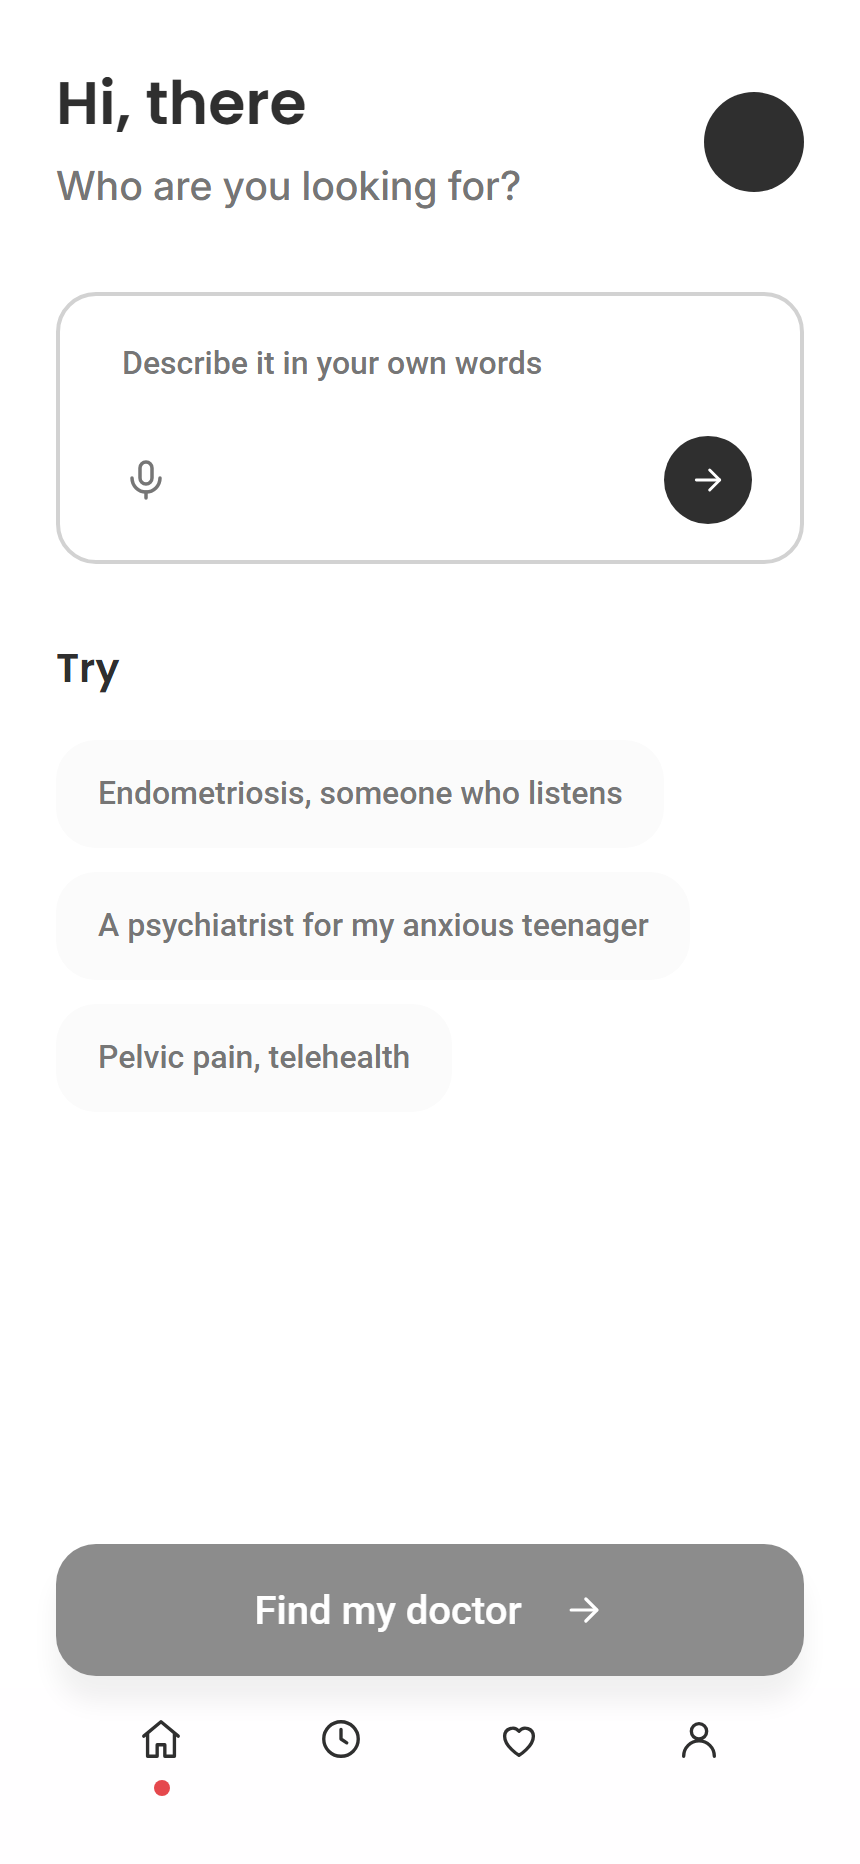
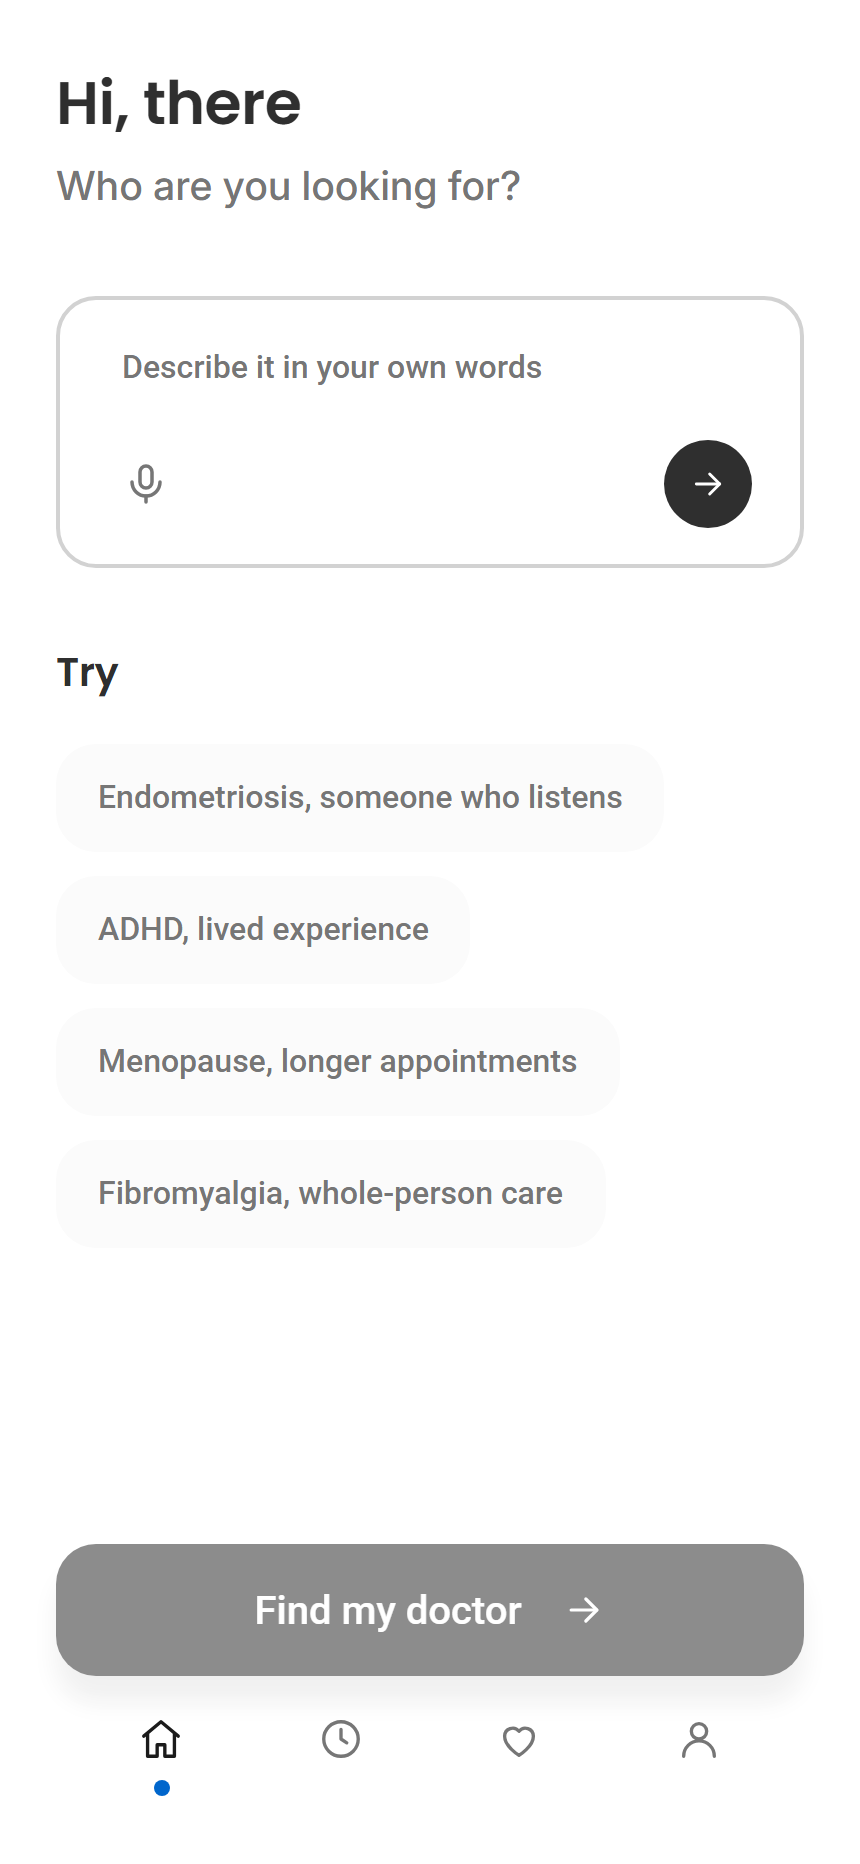
v3: real personal profiles, results cards, flat profile, demo searches
- 29 real QLD doctors with personal bios on their own practice sites merged as 'published'
  personal profiles (src/data/published.ts; women's health, mental health, overlooked chronic);
  every record names its source page; fictional illustrative profiles off by default
- flow: one field -> results -> profile (heard pills editable inline, telehealth / all-QLD toggles)
- cards: avatar, specialty·suburb·km, matched chips, one quote in the doctor's published words,
  practical line; profile in Headway order with labelled sections and folded research/practical/why
- Layer 2: published interests count as documented clinical interests; a profiled doctor who
  sees the asked population outranks one who lists adults only (no-profile stays neutral)
- Brisbane + Sunshine Coast gazetteer; CTA fade; laptop shots in the walk; README/CLAUDE.md

diff --git a/src/ui/screens/patient-a/DoctorCard.tsx b/src/ui/screens/patient-a/DoctorCard.tsx
@@ -9,7 +9,7 @@ import { doctorHref } from "@/src/data/doctor-slug";
 import { Avatar, Chip, Chips, Heart } from "@/src/ui/kit";
 import { drName, personalOf, practicalChips, quoteOf, specialtyTitle, yearsLine } from "@/src/ui/screens/patient-b/facts";
 import { listedOnly, matchChips } from "./card";
-import { placeLine } from "./lib";
+import { placeLine, suburbOf } from "./lib";
 
 function clinicalLine(card: Card, labels: Record<string, string>): string {
   if (listedOnly(card)) return `Listed under ${specialtyTitle(card.doctor.specialty).toLowerCase()}; no documented focus on this yet.`;
@@ -20,8 +20,9 @@ function clinicalLine(card: Card, labels: Record<string, string>): string {
 export function DoctorCard({ card, labels, saved, onSave, index = 0 }: { card: Card; labels: Record<string, string>; saved: boolean; onSave: () => void; index?: number }) {
   const d: DoctorRecord = card.doctor;
   const name = drName(d);
-  const place = placeLine(card);
-  const km = card.distanceKm !== undefined ? `${Math.round(card.distanceKm)} km` : null;
+  const near = card.distanceKm !== undefined && card.distanceKm <= 20;
+  const place = near ? suburbOf(card) : placeLine(card);
+  const km = card.distanceKm !== undefined ? `${Math.max(1, Math.round(card.distanceKm))} km` : d.telehealth.value === "only" ? "Telehealth" : null;
   const head = [specialtyTitle(d.specialty), place, km].filter(Boolean).join(" · ");
   const chips = matchChips(card);
   const quote = quoteOf(d);
@@ -55,7 +56,7 @@ export function DoctorCard({ card, labels, saved, onSave, index = 0 }: { card: C
           </Chips>
         ) : null}
         <p className="mt-4 text-[16px] leading-[1.5] text-charcoal">{quote ? `“${quote.text}”` : clinicalLine(card, labels)}</p>
-        {quote && personal ? <p className="caption mt-1 text-[12px] text-grey">{personal.status === "illustrative" ? "Illustrative example" : "Their own words"}</p> : null}
+        {quote && personal ? <p className="caption mt-1 text-[12px] text-grey">{personal.status === "illustrative" ? "Illustrative example" : personal.status === "published" ? `From ${personal.sourceName ?? "their practice website"}` : "In their words"}</p> : null}
         {practical.length > 0 ? <p className="mt-3 text-[13px] text-grey">{practical.join(" · ")}</p> : null}
       </Link>
     </article>

diff --git a/src/ui/screens/patient-b/facts.ts b/src/ui/screens/patient-b/facts.ts
@@ -178,11 +178,13 @@ export function quoteOf(d: Pick<DoctorRecord, "personal">, max = 28): { text: st
   const p = personalOf(d);
   if (!p) return null;
   const words = (t: string) => t.trim().split(/\s+/).length;
-  const order = ["approach", "why", "lived", "other", "hobbies"];
-  const quotes = (p.quotes ?? []).filter((q) => words(q.text) <= max).sort((a, b) => order.indexOf(a.about) - order.indexOf(b.about));
+  const order = ["approach", "why", "lived", "other"];
+  const quotes = (p.quotes ?? []).filter((q) => words(q.text) <= max && q.about !== "hobbies").sort((a, b) => order.indexOf(a.about) - order.indexOf(b.about));
   if (quotes[0]) return quotes[0];
   const fallback = p.philosophyOfCare ?? p.philosophy ?? p.communicationApproach ?? p.whyMedicine ?? null;
-  return fallback ? { text: clip(fallback, 150), about: "approach" } : null;
+  if (fallback) return { text: clip(fallback, 150), about: "approach" };
+  const hobby = (p.quotes ?? []).find((q) => q.about === "hobbies" && words(q.text) <= max);
+  return hobby ?? null;
 }
 
 export function clip(text: string, chars: number): string {

diff --git a/src/ui/screens/patient-a/lib.ts b/src/ui/screens/patient-a/lib.ts
@@ -10,12 +10,7 @@ export const DEFAULT_SUBURB = "Brisbane";
 export const REACH_KM = 20;
 
 /** The "Try" examples on P02. Each one surfaces Queensland doctors with published personal profiles. */
-export const EXAMPLES = [
-  "Endometriosis and pelvic pain, someone who really listens",
-  "Late-diagnosed ADHD, a doctor with lived experience",
-  "Menopause, longer appointments, the whole picture",
-  "Fibromyalgia, I feel dismissed, whole-person care",
-];
+export const EXAMPLES = ["Endometriosis, someone who listens", "ADHD, lived experience", "Menopause, longer appointments", "Fibromyalgia, whole-person care"];
 
 export async function runMatch(input: { sentence: string; suburb?: string; removed?: string[]; anywhere?: boolean; id?: string }): Promise<StoredRequest> {
   const suburb = input.anywhere ? "" : (input.suburb ?? DEFAULT_SUBURB);

diff --git a/src/ui/kit/index.tsx b/src/ui/kit/index.tsx
@@ -270,9 +270,10 @@ export function Cta({ children, href, onClick, type = "button", arrow = true, ic
   );
   if (!fixed) return button;
   return (
-    <div className="frame-fixed pointer-events-none bottom-0 z-20">
+    <div className="frame-fixed pointer-events-none bottom-0 z-20 bg-white">
+      <div aria-hidden="true" className="pointer-events-none absolute inset-x-0 -top-12 h-12 bg-gradient-to-b from-white/0 to-white" />
       {note ? <p className="frame-pad caption pointer-events-auto pb-2 text-center text-[12px] text-grey">{note}</p> : null}
-      <div className="frame-pad pointer-events-auto flex items-center gap-3 pb-[26px] pt-1">
+      <div className="frame-pad pointer-events-auto flex items-center gap-3 pb-[26px] pt-2">
         {secondary}
         {button}
       </div>

diff --git a/src/ui/screens/patient-a/Home.tsx b/src/ui/screens/patient-a/Home.tsx
@@ -83,9 +83,11 @@ export function Home() {
     <Screen padBottom="pb-[190px]">
       <div className="flex items-center justify-between">
         <Title sub="Who are you looking for?">Hi, {display}</Title>
-        <span aria-hidden="true" className="inline-flex size-[50px] shrink-0 items-center justify-center rounded-full bg-charcoal font-inter text-[18px] font-semibold text-white">
-          {initials}
-        </span>
+        {initials ? (
+          <span aria-hidden="true" className="inline-flex size-[50px] shrink-0 items-center justify-center rounded-full bg-charcoal font-inter text-[18px] font-semibold text-white">
+            {initials}
+          </span>
+        ) : null}
       </div>
       <Gap h={38} />
       <form

diff --git a/src/ui/screens/patient-b/Profile.tsx b/src/ui/screens/patient-b/Profile.tsx
@@ -117,7 +117,7 @@ function Practical({ d }: { d: DoctorRecord }) {
   if (room) rows.push({ k: "Rooms", v: [room.name, room.address, `${room.suburb} ${room.postcode}`.trim()].filter(Boolean).join(", ") });
   if (rows.length === 0) return null;
   return (
-    <Disclosure title="Practical" sub={rows.slice(0, 3).map((r) => r.v).join(" · ")}>
+    <Disclosure title="Practical" sub={clip(rows.filter((r) => r.k !== "Rooms").slice(0, 3).map((r) => r.v).join(" · ") || rows[0]!.v, 64)}>
       <dl className="flex flex-col gap-2">
         {rows.map((r) => (
           <div key={r.k} className="flex gap-4 text-[15px]">

diff --git a/app/globals.css b/app/globals.css
@@ -188,7 +188,7 @@ details > summary::-webkit-details-marker {
 
 /* Translucent chrome: a light material with content scrolling under it. */
 .material {
-  background: rgba(255, 255, 255, 0.72);
+  background: rgba(255, 255, 255, 0.86);
   backdrop-filter: blur(20px) saturate(180%);
   -webkit-backdrop-filter: blur(20px) saturate(180%);
 }
@@ -285,5 +285,8 @@ details > summary::-webkit-details-marker {
   }
   .frame-pad {
     padding-inline: 32px;
+  }
+  .material {
+    border-top: 1px solid var(--color-divider);
   }
 }

diff --git a/src/data/types.ts b/src/data/types.ts
@@ -60,6 +60,7 @@ export const SOURCE_LABELS: Record<string, string> = {
   supabase: "Wattle",
   claim: "the doctor",
   illustrative: "Illustrative example",
+  "practice-website": "their practice website",
 };
 
 export function sourceLabel(source: string): string {

diff --git a/README.md b/README.md
@@ -4,6 +4,8 @@ A patient-first map of the Australian healthcare system. Sibling venture of ADHD
 
 **Status (2026-10-16):** Queensland MVP running on real data. 4,736 doctors nationally (psychiatry, obstetrics-gynaecology, paediatrics) from 12 public sources; 876 in Queensland; 195 Queensland doctors linked to 1,077 verified publications. Patient journey and clinician onboarding implemented to the Figma design (file `NEbiukDE3TyWFptwaCBhwV`), 19 screens, two-layer matching ported from ADHD.ME (600 tests). Supabase project `wattle-health` (ap-southeast-2) holds the same data behind `published_*` views.
 
+**v3 (2026-10-16):** 29 real Queensland doctors with genuinely personal bios on their own practice websites (women's health, mental health, overlooked chronic conditions) are merged in as `published` personal profiles (`src/data/published.ts`, research in `data/enriched/personal/research-*.json`, every record names its source page). Fictional illustrative profiles are off by default. The patient flow is now one field → results → profile; result cards carry matched chips, one quote in the doctor's published words and the practical line; the profile reads hero → in their words → how they practise → outside the clinic → sees → research / practical / why this match (folded) → source → call. Layout: edge to edge on phones, a device frame on tablets, a 560 px column on laptops.
+
 ## Live demo
 
 Deployment target is Vercel only; there is no static export and no GitHub Pages site (founder decision 2026-10-16).

diff --git a/CLAUDE.md b/CLAUDE.md
@@ -6,7 +6,8 @@ Read `PRD.md` §4, §7, §8 before touching anything. Contracts live in `src/mat
 - **No API keys, no model calls in the request path.** Extraction and rationale are lexical and deterministic.
 - **No emails.** Outreach is a founder action and is not drafted here.
 - **Three tiers, three badges**: register / declared / found, each with a date. "Not declared" is a rendered value, never a blank.
-- **Example profiles are fictional** (`synthetic: true`) and say so on every surface. No real person is listed until their register entry has been checked.
+- **Personal profiles come in four statuses**: `published` (the doctor's own words from their practice website, source URL on the record; 29 QLD doctors in `data/enriched/personal/research-*.json`), `doctor-approved` (the /join flow), `illustrative` (fictional, `synthetic: true`, off by default, labelled everywhere) and `draft` (reads as no profile). Never paraphrase a review into a profile.
+- **Deploy target is Vercel only.** No static export, no GitHub Pages, ever (founder decision 2026-10-16).
 - **Text budget**: 20 to 60 words per whole screen at 390 px, including header and footer chrome. `pnpm gate:text` fails the build over 60.
 - **Copy**: no testimonials, ratings, superlatives, "specialist" outside an Ahpra specialty, medicine brand names. `pnpm gate:copy` fails the build.
 - **Ranking rules are properties, not examples**: `src/matching/*.properties.test.ts` uses fast-check.
